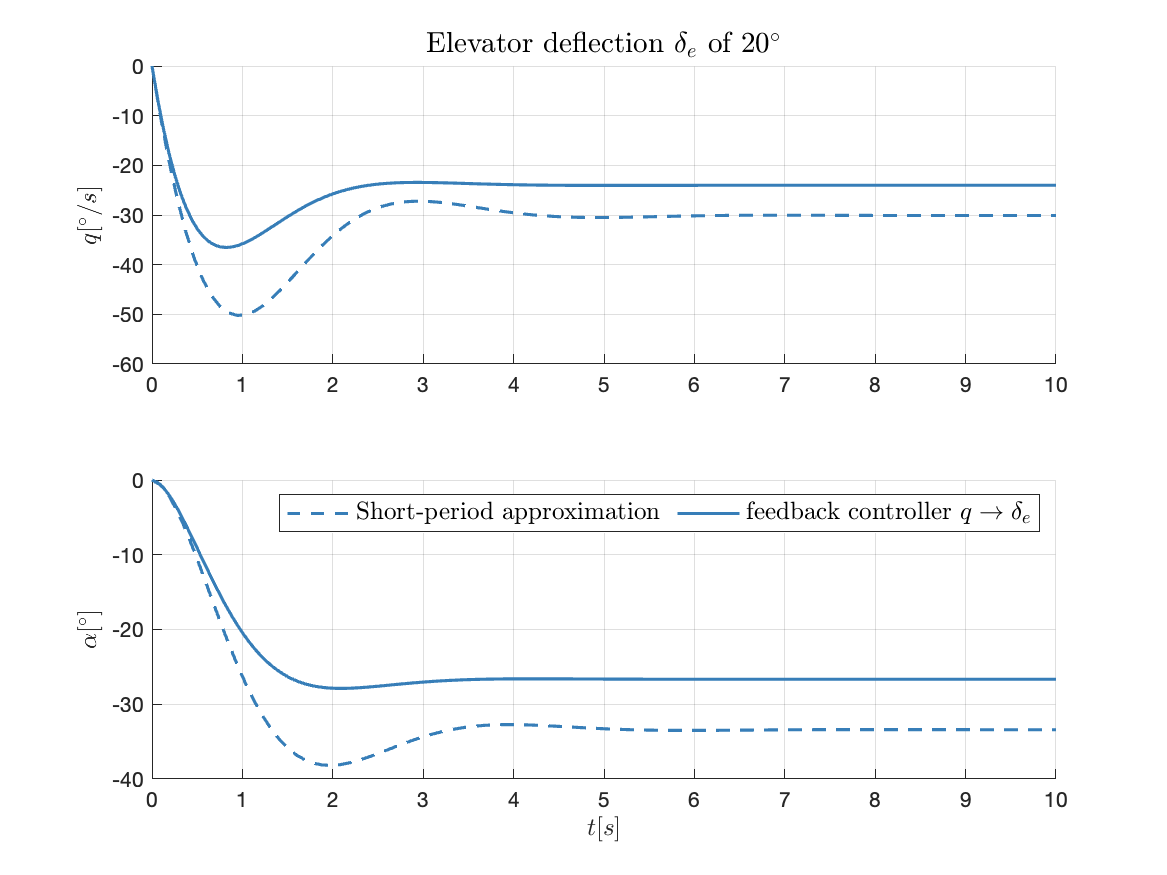
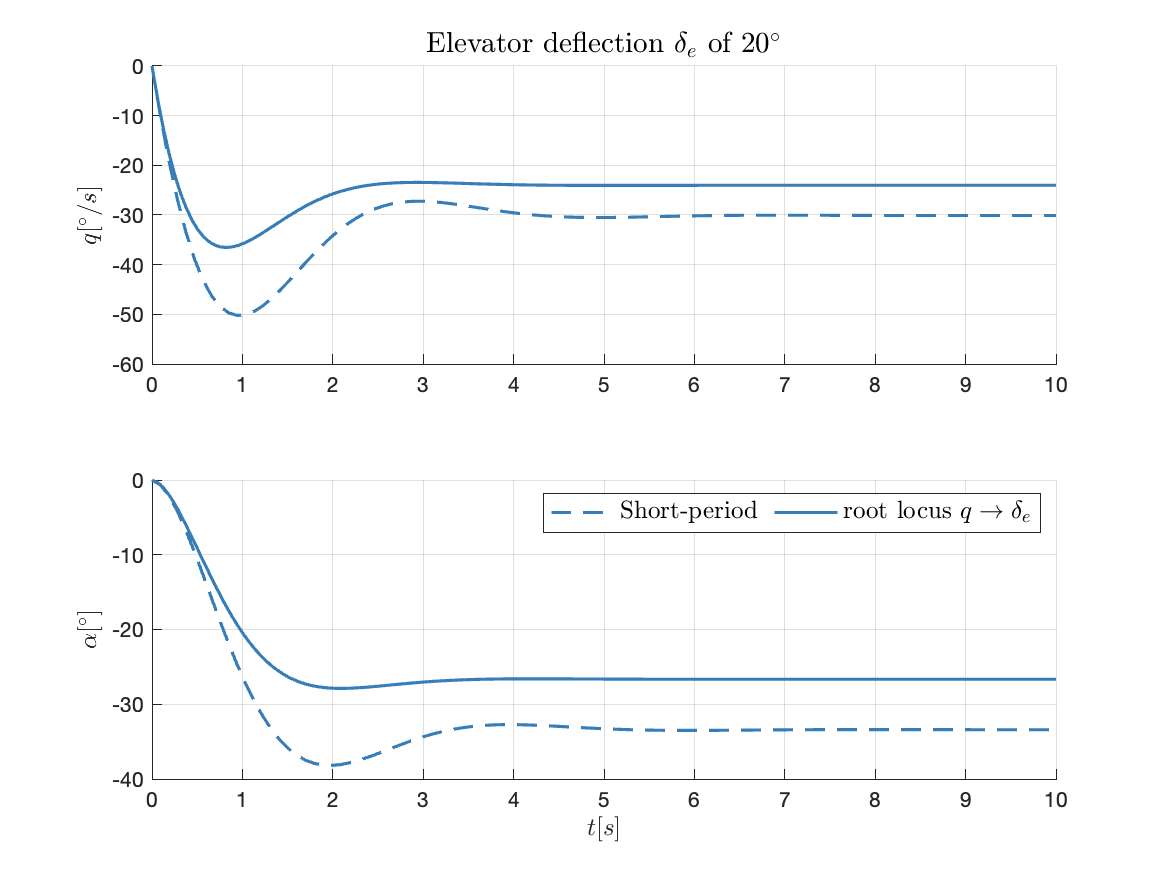
Variable name issues of task1 2 fixed

diff --git a/task2.m b/task2.m
@@ -14,21 +14,20 @@ K_rlocus = .1683;
 
 Tsim_long = 10;
 sp_approx_rlocus = feedback(sp_approx,K_rlocus,2,1,1);
-[Y_sp_approx_rlocus, T_rlocus] = step(delta_e_max*sp_approx_rlocus(:,2),Tsim_long);
+[Y_sp_approx_rlocus, T_sp_approx_rlocus] = step(delta_e_max*sp_approx_rlocus(:,2),Tsim_long);
 Y_sp_approx_rlocus = rad2deg(Y_sp_approx_rlocus);
 
 % Plot step response
-figure(4);
+figure(4); grid on
 label_y = ["$q [^\circ/s]$","$\alpha [^\circ]$"];
 for i = 1:2
-    subplot(2,1,i); hold all; ylabel(label_y(i),'Interpreter','latex','FontSize',12);
-    plot(T,Y_sp_approx(:,i),'LineWidth',1.5,'Color',plot_colors(1,:),'LineStyle','--');
-    plot(T_rlocus,Y_sp_approx_rlocus(:,i),'LineWidth',1.5,'Color',plot_colors(1,:),'LineStyle','-');
+    subplot(2,1,i); grid on; hold all; ylabel(label_y(i),'Interpreter','latex','FontSize',12);
+    plot(T_sp_approx,Y_sp_approx(:,i),'LineWidth',1.5,'Color',plot_colors(1,:),'LineStyle','--');
+    plot(T_sp_approx_rlocus,Y_sp_approx_rlocus(:,i),'LineWidth',1.5,'Color',plot_colors(1,:),'LineStyle','-');
 end
 hold off
-grid on
 xlabel('$t [s]$','Interpreter','latex','FontSize',12);
-subplot(2,1,2); lgd = legend('Short-period  approximation','feedback controller $q \rightarrow \delta_e$');
+subplot(2,1,2); lgd = legend('Short-period','root locus $q \rightarrow \delta_e$');
 lgd.Location = 'northeast'; lgd.FontSize = 12;
 lgd.Interpreter = 'latex'; lgd.NumColumns = 2;
 subplot(2,1,1); title('Elevator deflection $\delta_e$ of $20^\circ$', ...
@@ -47,8 +46,8 @@ rank(Qc)
 
 % Pole placement
 K_place = place(sp_approx.A,sp_approx.B(:,2),desiredPoles);
-sp_approx_place = feedback(sp_approx,K,2,[1 2],-1);
-sysFull_long_place = feedback(sysFull_long,K,2,[1 2],-1);
+sp_approx_place = feedback(sp_approx,K_place,2,[1 2],-1);
+sysFull_long_place = feedback(sysFull_long,K_place,2,[1 2],-1);
 
 damp(sp_approx_place)
 damp(sysFull_long_place)
@@ -57,25 +56,25 @@ damp(sysFull_long_place)
 %% 2.4
 Tsim_long = 10;
 % original
-[Y_Full_long2,T2] = step(delta_e_max*sysFull_long(:,2),Tsim_long);
-Y_Full_long2(:,[1 2 4]) = rad2deg(Y_Full_long2(:,[1 2 4]));
+[Y_Full_long,T_Full_long] = step(delta_e_max*sysFull_long(:,2),Tsim_long);
+Y_Full_long(:,[1 2 4]) = rad2deg(Y_Full_long(:,[1 2 4]));
 
 % root locus
 sysFull_long_rlocus = feedback(sysFull_long,K_rlocus,2,1,1);
-[Y_Full_long_rlocus,T_rlocus] = step(delta_e_max*sysFull_long_rlocus(:,2),Tsim_long);
+[Y_Full_long_rlocus,T_Full_long_rlocus] = step(delta_e_max*sysFull_long_rlocus(:,2),Tsim_long);
 Y_Full_long_rlocus(:,[1 2 4]) = rad2deg(Y_Full_long_rlocus(:,[1 2 4]));
 
 % pole placement
-[Y_Full_long_place,T_place] = step(delta_e_max*sysFull_long_place(:,2),Tsim_long);
+[Y_Full_long_place,T_Full_long_place] = step(delta_e_max*sysFull_long_place(:,2),Tsim_long);
 Y_Full_long_place(:,[1 2 4]) = rad2deg(Y_Full_long_place(:,[1 2 4]));
 
 figure(5); clf;
 label_y = ["$q [^\circ/s]$","$\alpha [^\circ]$","$V [m/s]$","$\Theta [^\circ]$"];
 for i = 1:4
-    subplot(4,1,i); hold all; ylabel(label_y(i),'Interpreter','latex','FontSize',12);
-    plot(T2,Y_Full_long2(:,i),'LineWidth',1.5,'Color',plot_colors(1,:));
-    plot(T_rlocus,Y_Full_long_rlocus(:,i),'LineWidth',1.5,'Color',plot_colors(1,:),'LineStyle','--');
-    plot(T_place,Y_Full_long_place(:,i),'LineWidth',1.5,'Color',plot_colors(1,:),'LineStyle','-.');
+    subplot(4,1,i); grid on; hold all; ylabel(label_y(i),'Interpreter','latex','FontSize',12);
+    plot(T_Full_long,Y_Full_long(:,i),'LineWidth',1.5,'Color',plot_colors(1,:));
+    plot(T_Full_long_rlocus,Y_Full_long_rlocus(:,i),'LineWidth',1.5,'Color',plot_colors(1,:),'LineStyle','--');
+    plot(T_Full_long_place,Y_Full_long_place(:,i),'LineWidth',1.5,'Color',plot_colors(1,:),'LineStyle','-.');
 end
 hold off
 grid on
@@ -89,42 +88,40 @@ subplot(4,1,1); title('Elevator deflection $\delta_e$ of $20^\circ$', ...
 saveas(figure(5),'./figures/task2.4-original-rlocus-place-comparison.png');
 
 %% 2.5
-Z_ph_desired = .707; % desired short-period mode damping ratio
+Z_ph_desired = .707; % desired phugoid mode damping ratio
 
-F_Thetadeltae = tf(sysFull_long_place(4,2));
-figure(6); rlocus(-F_Thetadeltae);set(findall(gca,'Type','Line'),'LineWidth',1.5,'MarkerSize',10);
-K_ph = .355;
+F_Vdeltat = tf(sysFull_long_place(3,1));
+%figure(6); rlocus(F_Vdeltat); set(findall(gca,'Type','Line'),'LineWidth',1.5,'MarkerSize',10); grid on
+K_ph = .0386;
 
-sysFull_long_new = feedback(sysFull_long_place,K_ph,2,4,1);
+%
+% F_Thetadeltae = tf(sysFull_long_place(4,2));
+% %figure(6); rlocus(-F_Thetadeltae);set(findall(gca,'Type','Line'),'LineWidth',1.5,'MarkerSize',10);
+% K_ph = .355;
+%
 
-Tsim_long = 300;
-[Y_Full_long_place,T_place] = step(delta_e_max*sysFull_long_place(:,2),Tsim_long);
+
+%% 2.6
+Tsim_long = 200;
+
+sysFull_long_ph = feedback(sysFull_long_place,K_ph,1,3,-1);
+%sysFull_long_ph = feedback(sysFull_long_place,K_ph,2,4,1);
+[Y_Full_long_ph,T_Full_long_ph] = step(delta_e_max*sysFull_long_ph(:,2),Tsim_long);
+Y_Full_long_ph(:,[1 2 4]) = rad2deg(Y_Full_long_ph(:,[1 2 4]));
+
+[Y_Full_long_place,T_Full_long_place] = step(delta_e_max*sysFull_long_place(:,2),Tsim_long);
 Y_Full_long_place(:,[1 2 4]) = rad2deg(Y_Full_long_place(:,[1 2 4]));
 
-[Y_Full_long_new,T_new] = step(delta_e_max*sysFull_long_new(:,2),Tsim_long);
-Y_Full_long_new(:,[1 2 4]) = rad2deg(Y_Full_long_new(:,[1 2 4]));
-
-%
-% F_Vdeltat = tf(sysFull_long_place(3,1));
-% K_ph = .0386;
-% 
-% sysFull_long_new2 = feedback(sysFull_long_place,K_ph,1,3,-1);
-% [Y_Full_long_new2,T_new2] = step(delta_e_max*sysFull_long_new2(:,2),Tsim_long);
-% Y_Full_long_new2(:,[1 2 4]) = rad2deg(Y_Full_long_new2(:,[1 2 4]));
-% 
-% u = K_ph*Y_Full_long_new2(:,3);
-%
 
 
 figure(6); clf;
 label_y = ["$q [^\circ/s]$","$\alpha [^\circ]$","$V [m/s]$","$\Theta [^\circ]$"];
 for i = 1:4
-    subplot(4,1,i); hold all; ylabel(label_y(i),'Interpreter','latex','FontSize',12);
-    plot(T_new,Y_Full_long_new(:,i),'LineWidth',1.5,'Color',plot_colors(1,:),'LineStyle','-');
-    plot(T_place,Y_Full_long_place(:,i),'LineWidth',1.5,'Color',plot_colors(1,:),'LineStyle','--');
+    subplot(4,1,i); grid on; hold all; ylabel(label_y(i),'Interpreter','latex','FontSize',12);
+    plot(T_Full_long_ph,Y_Full_long_ph(:,i),'LineWidth',1.5,'Color',plot_colors(1,:),'LineStyle','-');
+    plot(T_Full_long_place,Y_Full_long_place(:,i),'LineWidth',1.5,'Color',plot_colors(1,:),'LineStyle','--');
 end
 hold off
-grid on
 xlabel('$t [s]$','Interpreter','latex','FontSize',12);
 subplot(4,1,1); lgd = legend('with phugoid damping','without phugoid damping');
 lgd.Location = 'southeast'; lgd.FontSize = 11;

diff --git a/task1.m b/task1.m
@@ -9,18 +9,18 @@ Tsim_long = 10;
 delta_e_max = deg2rad(20); % elevator deflection of 20°
 
 % Full system
-[Y_Full_long2,T2] = step(delta_e_max*sysFull_long(:,2),Tsim_long);
-Y_Full_long2(:,[1 2 4]) = rad2deg(Y_Full_long2(:,[1 2 4]));
+[Y_Full_long1,T_Full_long1] = step(delta_e_max*sysFull_long(:,2),Tsim_long);
+Y_Full_long1(:,[1 2 4]) = rad2deg(Y_Full_long1(:,[1 2 4]));
 
-plotStepResponse(T2,Y_Full_long2(:,1:2),"full","SP");
+plotStepResponse(T_Full_long1,Y_Full_long1(:,1:2),"full","SP");
 
 % Approximation Short-Period
 sp_approx = approximateSystem(A_long,B_long,"SP");
 
-[Y_sp_approx,T] = step(delta_e_max*sp_approx(:,2),Tsim_long);
+[Y_sp_approx,T_sp_approx] = step(delta_e_max*sp_approx(:,2),Tsim_long);
 Y_sp_approx = rad2deg(Y_sp_approx);
 
-plotStepResponse(T,Y_sp_approx,"approximation","SP");
+plotStepResponse(T_sp_approx,Y_sp_approx,"approximation","SP");
 
 % Natural frequency and damping
 [Wn_sp,Z_sp] = damp(sp_approx);
@@ -50,18 +50,18 @@ Tsim_lat = 15;
 delta_r_max = deg2rad(20); % ruder deflection of 20°
 
 % Full system
-[Y_Full_lat,T] = step(delta_r_max*sysFull_lat(1:2,2),Tsim_lat);
+[Y_Full_lat,T_Full_lat] = step(delta_r_max*sysFull_lat(1:2,2),Tsim_lat);
 Y_Full_lat = rad2deg(Y_Full_lat);
 
-plotStepResponse(T,Y_Full_lat,"full","DR");
+plotStepResponse(T_Full_lat,Y_Full_lat,"full","DR");
 
 % Approximation Dutch Roll
 dr_approx = approximateSystem(A_lat,B_lat,'DR');
 
-[Y_dr_approx,T] = step(delta_r_max*dr_approx(:,2),Tsim_lat);
+[Y_dr_approx,T_dr_approx] = step(delta_r_max*dr_approx(:,2),Tsim_lat);
 Y_dr_approx = rad2deg(Y_dr_approx);
 
-plotStepResponse(T,Y_dr_approx,"approximation","DR");
+plotStepResponse(T_dr_approx,Y_dr_approx,"approximation","DR");
 
 % Natural frequency and damping
 [Wn_dr,Z_dr] = damp(dr_approx);
@@ -76,8 +76,8 @@ saveas(figure(2),'./figures/task1.1-lateral-comparison.png');
 %% 1.3
 % Step input
 delta_t_max = .1; % 10% throttle
-[Y_Full_long1,T1] = step(delta_t_max*sysFull_long(:,1),Tsim_long);
-Y_Full_long1(:,[1 2 4]) = rad2deg(Y_Full_long1(:,[1 2 4]));
+[Y_Full_long2,T2] = step(delta_t_max*sysFull_long(:,1),Tsim_long);
+Y_Full_long2(:,[1 2 4]) = rad2deg(Y_Full_long2(:,[1 2 4]));
 
 figure(3); clf
 label_y = ["$q [^\circ/s]$","$\alpha [^\circ]$","$V [m/s]$","$\Theta [^\circ]$"];
@@ -86,7 +86,7 @@ for i = 1:4
     subplot_pos = subplot_pos + 1;
     subplot(4,2,subplot_pos); grid on; hold all
     ylabel(label_y(i),'Interpreter','latex','FontSize',12);
-    plot(T1,Y_Full_long1(:,i),'LineWidth',1.5,'Color',plot_colors(1,:));
+    plot(T2,Y_Full_long2(:,i),'LineWidth',1.5,'Color',plot_colors(1,:));
     if i == 1
         title('$\delta_t = 10\%$', ...
               'Interpreter','latex', ...
@@ -97,7 +97,7 @@ for i = 1:4
 
     subplot_pos = subplot_pos + 1;
     subplot(4,2,subplot_pos); grid on; hold all
-    plot(T2,Y_Full_long2(:,i),'LineWidth',1.5,'Color',plot_colors(1,:));
+    plot(T1,Y_Full_long1(:,i),'LineWidth',1.5,'Color',plot_colors(1,:));
     if i == 1
         title('$\delta_e = 20^\circ$', ...
               'Interpreter','latex', ...
@@ -108,46 +108,3 @@ for i = 1:4
 end
 hold off
 saveas(figure(3),'./figures/task1.3-thrust-elevator-comparison.png');
-
-% %% 1.3 With doublet input
-% 
-% Tsim_long = 10;
-% 
-% % Create doublet input
-% t = 0:.01:Tsim_long;
-% delta_e = (t>1)*.5 + (t>2)*(-1) + (t>3)*.5;
-% delta_t = delta_e;
-% 
-% Y_Full_t = lsim(sysFull_long(:,1),delta_t,t);
-% Y_Full_t(:,[1 2 4]) = rad2deg(Y_Full_t(:,[1 2 4]));
-% Y_Full_e = lsim(sysFull_long(:,2),delta_e,t);
-% Y_Full_e(:,[1 2 4]) = rad2deg(Y_Full_e(:,[1 2 4]));
-% 
-% figure(3);
-% label_y = ["$q [^\circ/s]$","$\alpha [^\circ]$","$V [m/s]$","$\Theta [^\circ]$"];
-% subplot_pos = 0;
-% for i = 1:4
-%     subplot_pos = subplot_pos + 1;
-%     subplot(4,2,subplot_pos); grid on; hold all
-%     ylabel(label_y(i),'Interpreter','latex','FontSize',12);
-%     plot(t,Y_Full_t(:,i),'LineWidth',1.5,'Color',plot_colors(1,:));
-%     if i == 1
-%         title('Doublet $\delta_t = \pm50\%$', ...
-%               'Interpreter','latex', ...
-%               'FontSize',16);
-%     elseif i == 4
-%         xlabel('time in $s$','Interpreter','latex','FontSize',12);
-%     end
-% 
-%     subplot_pos = subplot_pos + 1;
-%     subplot(4,2,subplot_pos); grid on; hold all
-%     plot(t,Y_Full_e(:,i),'LineWidth',1.5,'Color',plot_colors(1,:));
-%     if i == 1
-%         title('Doublet $\delta_e = \pm29^\circ$', ...
-%               'Interpreter','latex', ...
-%               'FontSize',16);
-%     elseif i == 4
-%         xlabel('time in $s$','Interpreter','latex','FontSize',12);
-%     end
-% end
-% hold off

diff --git a/task3.m b/task3.m
@@ -3,7 +3,7 @@
 %% 3.2
 
 Qc = ctrb(A_lat,B_lat);    % controllability matrix
-rank(Qc)
+rank(Qc);
 
 
 %% 3.3
@@ -53,11 +53,61 @@ v4 = M4\b4; u4 = v4(5:6); v4 = v4(1:4);
 K = real([u1,u2,u3,u4]/[v1,v2,v3,v4]);
 
 % Verification
-[V,D] = eig(A_lat-B_lat*K1)
+[V,D] = eig(A_lat-B_lat*K);
 
 % Closed loop system
-sysFull_lat_ea = feedback(sysFull_lat,K)
+sysFull_lat_cl = feedback(sysFull_lat,K);
 
 
 %% 3.5
+Tsim_lat = 10;
 
+% initial conditions
+x01 = [1 0 0 0]';
+x02 = [0 0 1 0]';
+
+% open-loop simulation
+[Y1,T1,X1] = initial(sysFull_lat,x01,Tsim_lat);
+Y1 = rad2deg(Y1);
+[Y2,T2,X2] = initial(sysFull_lat,x02,Tsim_lat);
+Y2 = rad2deg(Y2);
+
+% closed-loop simulation (feedback gain controller using eigenstructure
+% assignment)
+[Ycl1,Tcl1,Xcl1] = initial(sysFull_lat_cl,x01,Tsim_lat);
+Ycl1 = rad2deg(Ycl1);
+[Ycl2,Tcl2,Xcl2] = initial(sysFull_lat_cl,x02,Tsim_lat);
+Ycl2 = rad2deg(Ycl2);
+
+% plots
+% initial condition x01
+figure(7); clf;
+label_y = ["$r [^\circ/s]$","$\beta [^\circ]$","$p [^\circ/s]$","$\Phi [^\circ]$"];
+for i = 1:4
+    subplot(4,1,i); grid on; hold all; ylabel(label_y(i),'Interpreter','latex','FontSize',12);
+    plot(T1,Y1(:,i),'LineWidth',1.5,'Color',plot_colors(1,:),'LineStyle','-');
+    plot(Tcl1,Ycl1(:,i),'LineWidth',1.5,'Color',plot_colors(1,:),'LineStyle','--');
+end
+hold off
+xlabel('$t [s]$','Interpreter','latex','FontSize',12);
+subplot(4,1,3); lgd = legend('open-loop','with feedback gain controller');
+lgd.Location = 'northeast'; lgd.FontSize = 11;
+lgd.Interpreter = 'latex'; lgd.NumColumns = 1;
+subplot(4,1,1); title("Initial condition $x_{0,1} = [1,0,0,0]'$", ...
+                      'Interpreter','latex', 'FontSize',14);
+
+% initial condition x02
+figure(8); clf;
+label_y = ["$r [^\circ/s]$","$\beta [^\circ]$","$p [^\circ/s]$","$\Phi [^\circ]$"];
+for i = 1:4
+    subplot(4,1,i); grid on; hold all; ylabel(label_y(i),'Interpreter','latex','FontSize',12);
+    plot(T2,Y2(:,i),'LineWidth',1.5,'Color',plot_colors(1,:),'LineStyle','-');
+    plot(Tcl2,Ycl2(:,i),'LineWidth',1.5,'Color',plot_colors(1,:),'LineStyle','--');
+end
+hold off
+xlabel('$t [s]$','Interpreter','latex','FontSize',12);
+subplot(4,1,3); lgd = legend('open-loop','with feedback gain controller');
+lgd.Location = 'northeast'; lgd.FontSize = 11;
+lgd.Interpreter = 'latex'; lgd.NumColumns = 1;
+subplot(4,1,1); title("Initial condition $x_{0,2} = [0,0,1,0]'$", ...
+                      'Interpreter','latex', 'FontSize',14);

diff --git a/plotStepResponse.m b/plotStepResponse.m
@@ -6,7 +6,7 @@ switch systemType
     case {"full", "Full"}
         switch modeName
             case {"short period","SP"}
-                figure(1); clf
+                figure(1);
                 label_y = ["$q [^\circ/s]$","$\alpha [^\circ]$"];
                 for i = 1:2
                     subplot(2,1,i); grid on; hold all
@@ -15,7 +15,7 @@ switch systemType
                 end
         
             case {"dutch roll","DR"}
-                figure(2); clf
+                figure(2);
                 label_y = ["$r [^\circ/s]$","$\beta [^\circ]$"];
                 for i = 1:2
                     subplot(2,1,i); grid on; hold all
@@ -30,7 +30,7 @@ switch systemType
     case{"approximation"}
         switch modeName
             case {"short period","SP"}
-                figure(1); clf
+                figure(1);
                 for i = 1:2
                     subplot(2,1,i);
                     plot(T,Y(:,i),'LineWidth',1.5, ...
@@ -48,7 +48,7 @@ switch systemType
                 lgd.Location = 'southeast'; lgd.NumColumns = 2;
 
             case {"dutch roll","DR"}
-                figure(2); clf
+                figure(2);
                 for i = 1:2
                     subplot(2,1,i);
                     plot(T,Y(:,i),'LineWidth',1.5, ...
